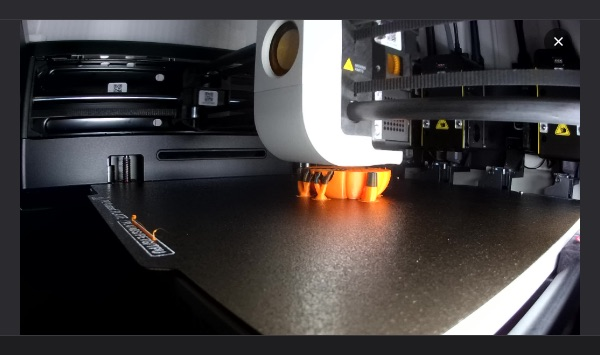
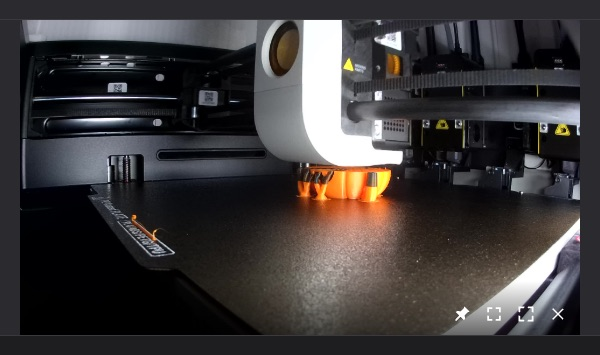
feat(ui): Camera ✕ with its other buttons; double-click goes one size up
The camera's ✕ was a round button of its own in the box's corner. It
is now a .cam-btn at the end of the bar, after Pin, Enlarge and Full
size: shown on hover as they are, always in full size, hidden in the
pinned window, whose header has its own.

A double-click only toggled the enlarged size, and did nothing in full
size. It now goes one size up each time: normal, enlarged, full size,
then back to the normal size (camNextSize). Not in the pinned window,
whose click leads to the printer's page. Enlarge's button still
toggles both ways (camToggleSize takes the size wanted).

Changed region(s): [[0.39, 0.8056, 0.96, 0.9606], [0.9, 0.093, 0.93, 0.1239]]

diff --git a/ui/printers.js b/ui/printers.js
@@ -986,15 +986,25 @@ $("cam-img").addEventListener("error", () => {
 // The camera's switch: on, the live image; off, nothing is fetched.
 $("cam-toggle").addEventListener("change", () => ($("cam-toggle").checked ? camStart() : camStop()));
 // Double-click: the image takes the full width of the printer pane.
-/* Enlarge the camera: its button (shown on hover) or a double-click. */
-function camToggleSize() {
-  const big = $("cam-box").classList.toggle("big");
+/* Enlarge the camera: its button (shown on hover). */
+function camToggleSize(big = !$("cam-box").classList.contains("big")) {
+  $("cam-box").classList.toggle("big", big);
   $("cam-size").title = tr(big ? "printers.cam.shrink" : "printers.cam.enlarge");
 }
-$("cam-box").addEventListener("dblclick", (e) => !e.target.closest(".cam-bar, .cam-close") && !CAM.full && !CAM.pinned && camToggleSize());
-// Its ✕, at every size (the pinned window has its own in its header).
+/* A double-click: one size up each time — enlarged, then full size — and
+   from full size back to the normal size. Not in the pinned window, whose
+   click leads to the printer's page. */
+function camNextSize() {
+  if (CAM.full) {
+    camToggleSize(false);
+    camFull(false);
+  } else if ($("cam-box").classList.contains("big")) camFull(true);
+  else camToggleSize(true);
+}
+$("cam-box").addEventListener("dblclick", (e) => !e.target.closest(".cam-bar") && !CAM.pinned && camNextSize());
+// Its ✕, with the other buttons (the pinned window has its own in its header).
 $("cam-close").addEventListener("click", camStop);
-$("cam-size").addEventListener("click", camToggleSize);
+$("cam-size").addEventListener("click", () => camToggleSize());
 $("cam-full-btn").addEventListener("click", () => camFull(!CAM.full));
 $("cam-pin").addEventListener("click", () => camPin(!CAM.pinned));
 $("cam-pip-unpin").addEventListener("click", () => camPin(false));
@@ -1003,7 +1013,7 @@ $("cam-pip-close").addEventListener("click", camStop);
 // around the image drawn to fit — gives it back, as Esc does. No frame yet
 // or offline: the whole box is the camera, only the margin does.
 $("cam-full").addEventListener("click", (e) => {
-  if (!CAM.full || e.target.closest(".cam-bar, .cam-close")) return;
+  if (!CAM.full || e.target.closest(".cam-bar")) return;
   if (e.target === $("cam-full")) return camFull(false);
   const img = $("cam-img");
   if (CAM.offline || img.classList.contains("hidden") || !img.naturalWidth) return;

diff --git a/ui/index.html b/ui/index.html
@@ -551,7 +551,6 @@
           </div>
           <div id="cam-box" class="cam-box hidden"><img id="cam-img" alt="Printer camera" data-i18n-alt="printers.camera_alt" />
             <div id="cam-off" class="cam-off hidden" role="status"><svg viewBox="0 0 24 24" aria-hidden="true"><path d="M2.3 3.7 3.7 2.3l18 18-1.4 1.4-3.4-3.4H6.5A4.5 4.5 0 0 1 5 10.2a6.9 6.9 0 0 1 1.2-2.6zM12 4a7 7 0 0 1 6.7 5A4.5 4.5 0 0 1 21 17.2l-1.5-1.5A2.5 2.5 0 0 0 18 11h-1l-.3-1A5 5 0 0 0 9.4 6.6L8 5.2A7 7 0 0 1 12 4"/></svg><span data-i18n="printers.cam.offline">Camera unavailable: the printer does not answer</span></div>
-            <button id="cam-close" class="cam-close" title="Close the camera" aria-label="Close the camera" data-i18n-title="printers.cam.close" data-i18n-aria="printers.cam.close"><svg viewBox="0 0 24 24" aria-hidden="true"><path d="M6.4 5 12 10.6 17.6 5 19 6.4 13.4 12l5.6 5.6-1.4 1.4-5.6-5.6L6.4 19 5 17.6l5.6-5.6L5 6.4z"/></svg></button>
             <div class="cam-bar">
               <button id="cam-pin" class="cam-btn" title="Pin: keep the camera on every screen" aria-label="Pin: keep the camera on every screen" data-i18n-title="printers.cam.pin" data-i18n-aria="printers.cam.pin"><svg viewBox="0 0 24 24" aria-hidden="true"><path d="M15 3l6 6-2.5 1.2-3.3 3.3.5 4.5-1.4 1.4-4-4-4.6 4.6H4v-1.7L8.6 13.7l-4-4L6 8.3l4.5.5 3.3-3.3z"/></svg></button>
               <button id="cam-size" class="cam-btn" title="Enlarge" aria-label="Enlarge" data-i18n-title="printers.cam.enlarge" data-i18n-aria="printers.cam.enlarge">
@@ -559,6 +558,7 @@
               <svg class="shrink" viewBox="0 0 24 24" aria-hidden="true"><path d="M8 4h2v6H4V8h4zm6 0h2v4h4v2h-6zM4 14h6v6H8v-4H4zm10 0h6v2h-4v4h-2z"/></svg>
             </button>
               <button id="cam-full-btn" class="cam-btn" title="Full size" aria-label="Full size" data-i18n-title="printers.cam.full" data-i18n-aria="printers.cam.full"><svg viewBox="0 0 24 24" aria-hidden="true"><path d="M3 3h7v2H5v5H3zm11 0h7v7h-2V5h-5zM3 14h2v5h5v2H3zm16 0h2v7h-7v-2h5z"/></svg></button>
+              <button id="cam-close" class="cam-btn" title="Close the camera" aria-label="Close the camera" data-i18n-title="printers.cam.close" data-i18n-aria="printers.cam.close"><svg viewBox="0 0 24 24" aria-hidden="true"><path d="M6.4 5 12 10.6 17.6 5 19 6.4 13.4 12l5.6 5.6-1.4 1.4-5.6-5.6L6.4 19 5 17.6l5.6-5.6L5 6.4z"/></svg></button>
             </div></div>
         </div>
         <div class="group" id="prn-filaments"></div>

diff --git a/ui/style.css b/ui/style.css
@@ -4313,20 +4313,15 @@ input[type="number"] { -moz-appearance: textfield; appearance: textfield; }
 .cam-btn .shrink, .cam-box.big .cam-btn .grow { display: none; }
 .cam-box.big .cam-btn .shrink { display: block; }
 .cam-btn.on { background: rgba(255, 255, 255, 0.22); }
-.cam-btn:focus-visible, .cam-pip-btn:focus-visible, .cam-close:focus-visible { outline: none; box-shadow: 0 0 0 2px var(--accent); }
-/* The camera's ✕: always shown, at every size but in the pinned window,
-   whose header has its own. */
-.cam-close { position: absolute; top: 8px; right: 8px; z-index: 2; display: grid; place-items: center; width: 28px; height: 28px; padding: 0; border: 0; border-radius: 50%; background: rgba(0, 0, 0, 0.55); color: #fff; cursor: pointer; }
-.cam-close:hover { background: rgba(0, 0, 0, 0.75); }
-.cam-close svg { width: 15px; height: 15px; fill: currentColor; }
-.cam-pip .cam-close { display: none; }
+.cam-btn:focus-visible, .cam-pip-btn:focus-visible { outline: none; box-shadow: 0 0 0 2px var(--accent); }
 /* The printer does not answer: said over the camera, its last image hidden. */
 .cam-off { position: absolute; inset: 0; display: flex; flex-direction: column; align-items: center; justify-content: center; gap: 8px; padding: 12px; background: #111; color: rgba(255, 255, 255, 0.78); font-size: 12px; text-align: center; }
 .cam-off svg { width: 26px; height: 26px; fill: currentColor; opacity: 0.7; }
 /* Full size: over the content area (not the system window), the image whole. */
 .cam-full { position: absolute; inset: 0; z-index: 60; display: flex; align-items: center; justify-content: center; padding: 16px; background: rgba(0, 0, 0, 0.92); }
 .cam-full .cam-box { width: 100%; height: 100%; max-width: none; aspect-ratio: auto; margin: 0; background: transparent; }
-.cam-full .cam-btn#cam-size, .cam-pip .cam-btn#cam-size, .cam-pip .cam-btn#cam-pin { display: none; }
+/* The pinned window's header has its own ✕. */
+.cam-full .cam-btn#cam-size, .cam-pip .cam-btn#cam-size, .cam-pip .cam-btn#cam-pin, .cam-pip .cam-btn#cam-close { display: none; }
 .cam-full .cam-bar { opacity: 1; pointer-events: auto; }
 /* Pinned: a small window over every screen, under the sheets (80) and the
    toasts (90), in a corner of the window. */

diff --git a/CHANGELOG.md b/CHANGELOG.md
@@ -31,11 +31,13 @@ with its packages for macOS, Windows and Linux. What comes next:
   patterns from pictures, ironing) and Other (print sequence, spiral vase,
   fuzzy skin, skirt, travel). Settings that detail another (ironing, fuzzy
   skin, overhang speeds, skirt) show only with it.
-- **Camera close button**: the printer camera has a ✕ in its corner at
-  every size (on the printer page, enlarged, over the 3D view, full size;
-  the pinned window keeps its own), which turns it off. In full size, a
-  click beside the picture, in the margin or the dark bands around it,
-  gives it back to where it came from, as Esc does.
+- **Camera close button**: the printer camera has a ✕ with its other
+  buttons, at every size (on the printer page, enlarged, over the 3D view,
+  full size; the pinned window keeps its own), which turns it off. In full
+  size, a click beside the picture, in the margin or the dark bands around
+  it, gives it back to where it came from, as Esc does. A double-click on
+  the camera goes one size up each time: enlarged, then full size, then
+  back to the normal size.
 
 ### Changed
 - **Head pickers show the spools**: in the slice sheet's advanced settings
